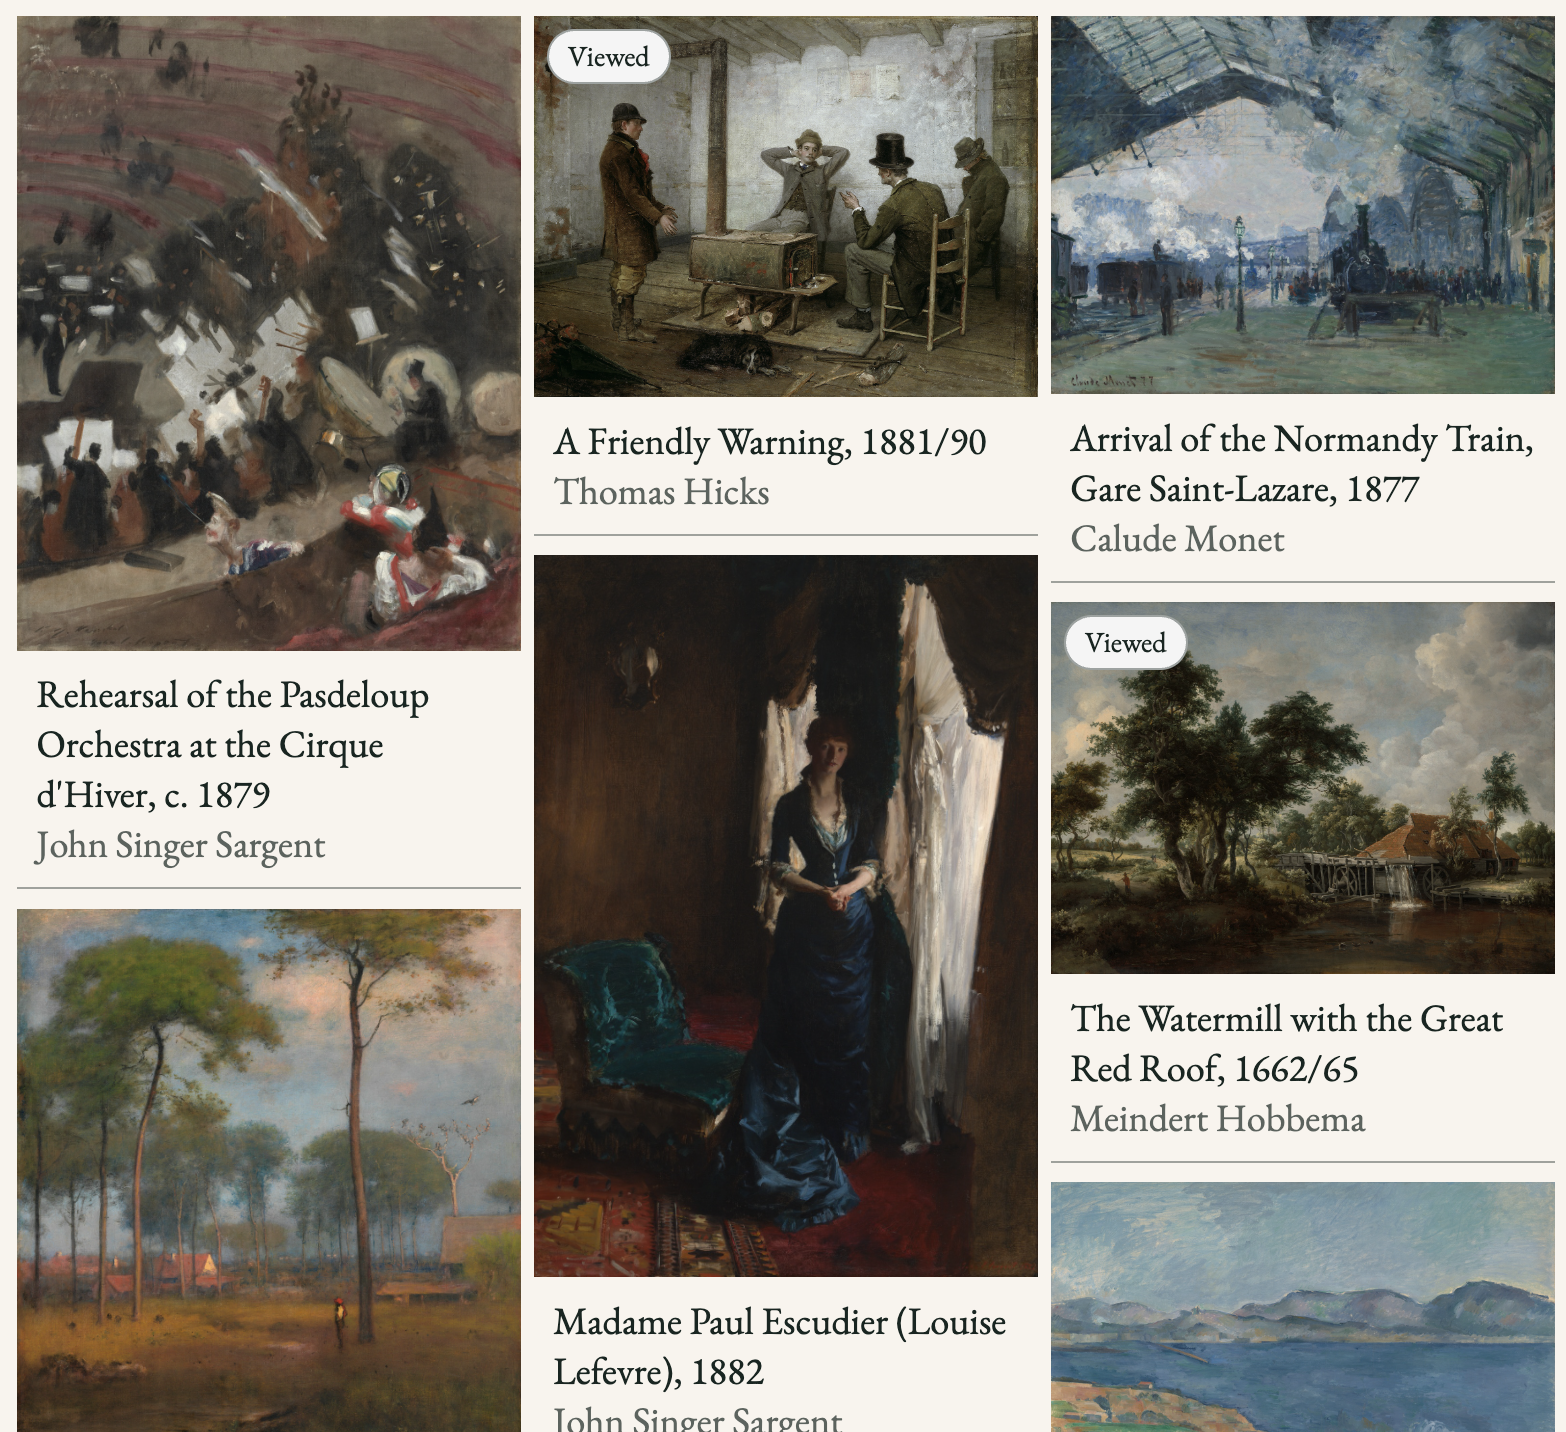
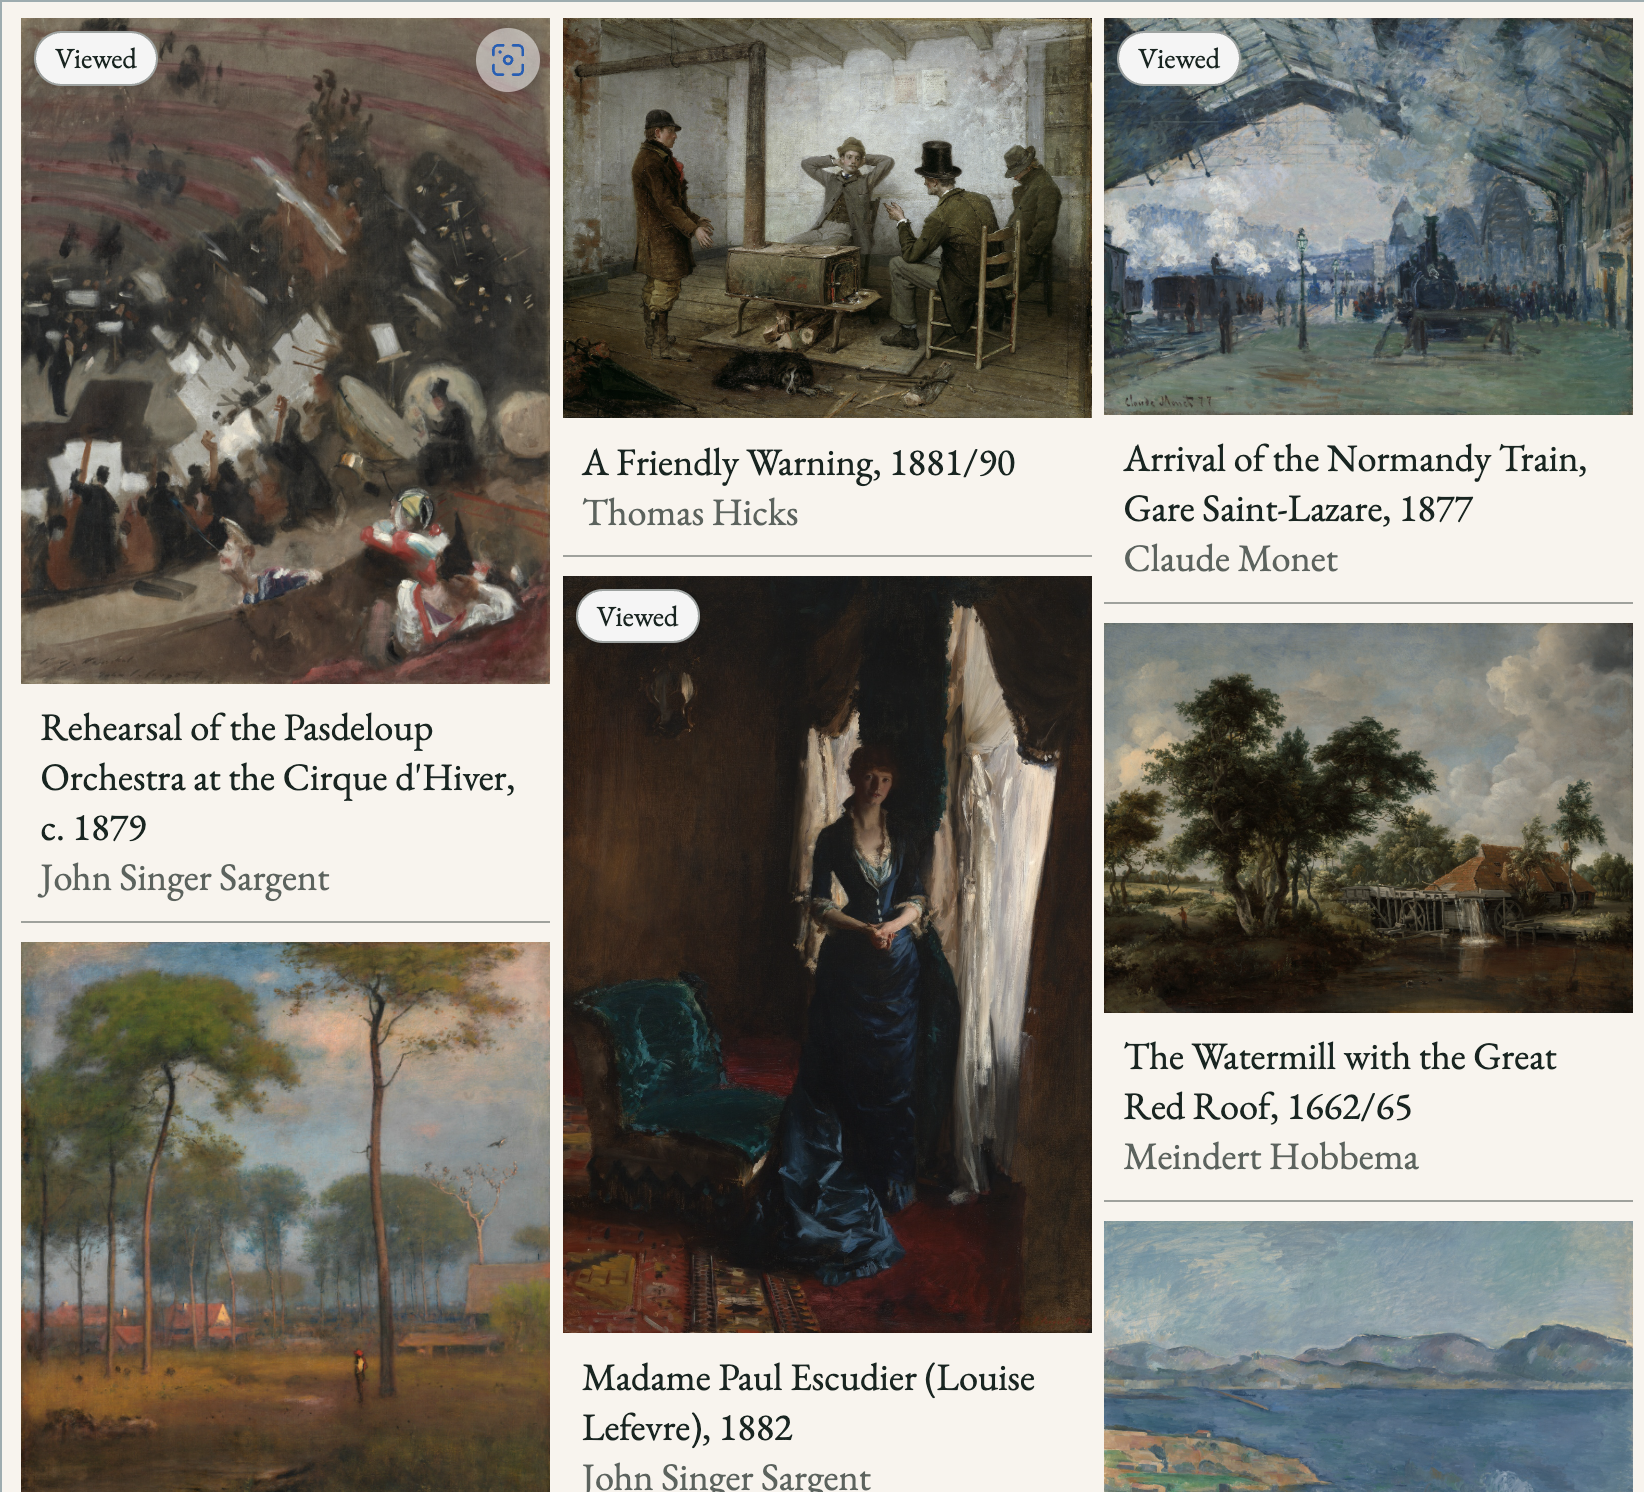
sp

diff --git a/src/database.ts b/src/database.ts
@@ -121,7 +121,7 @@ export const artworks: Artwork[] = [
       }
     },
     artist: {
-      name: "Calude Monet"
+      name: "Claude Monet"
     }
   },
   {
